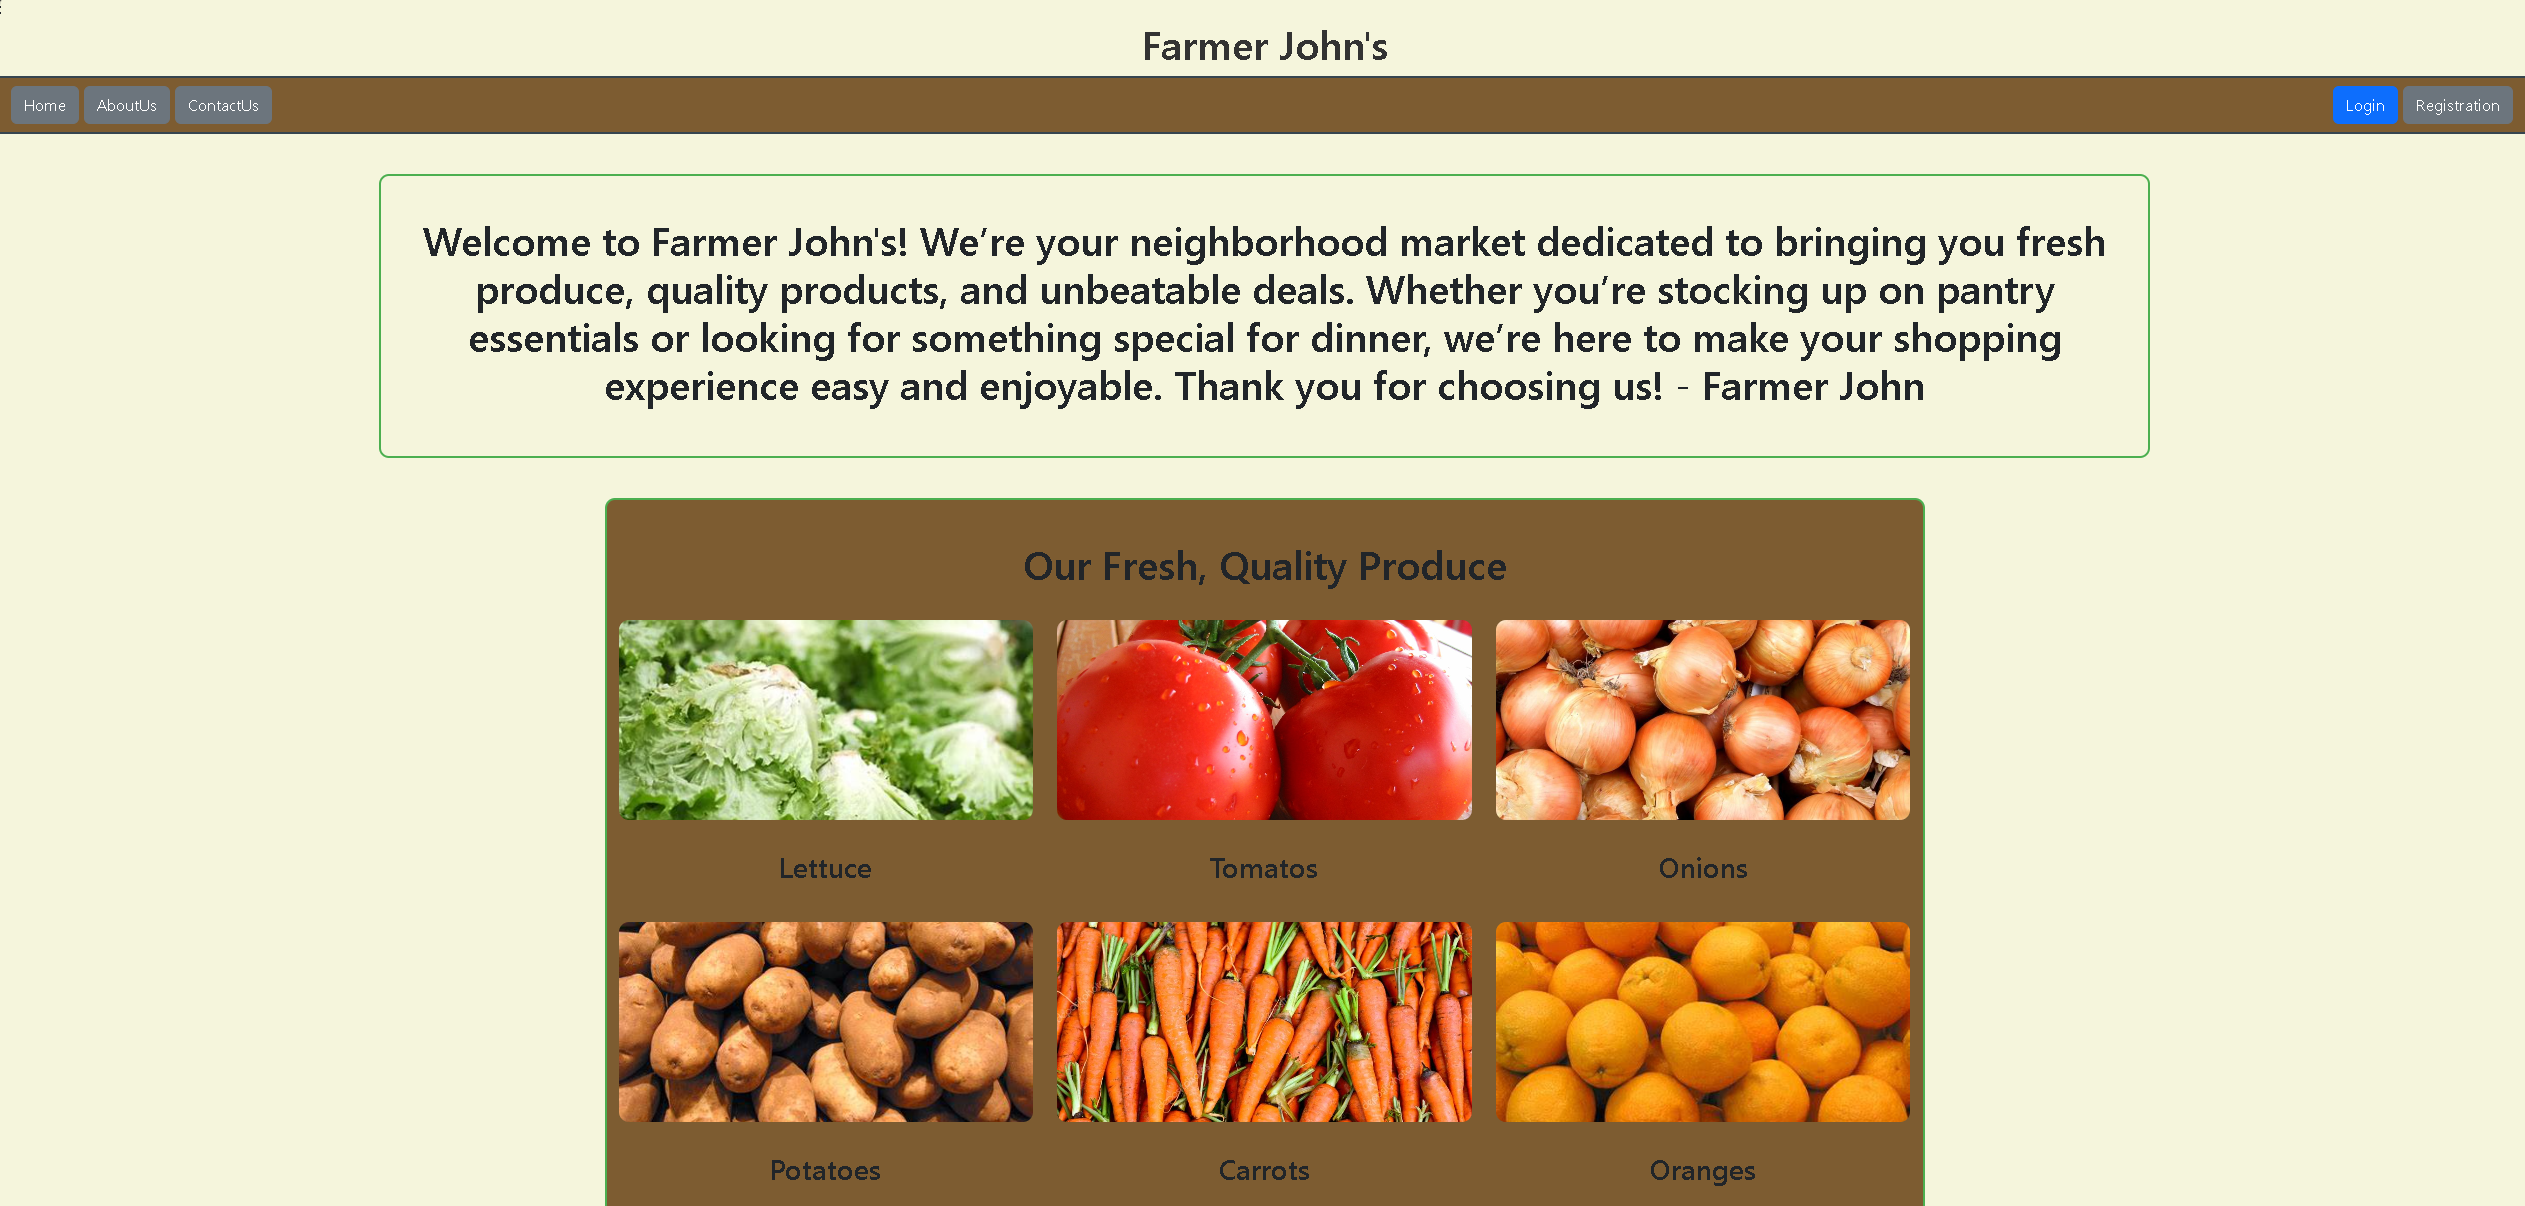
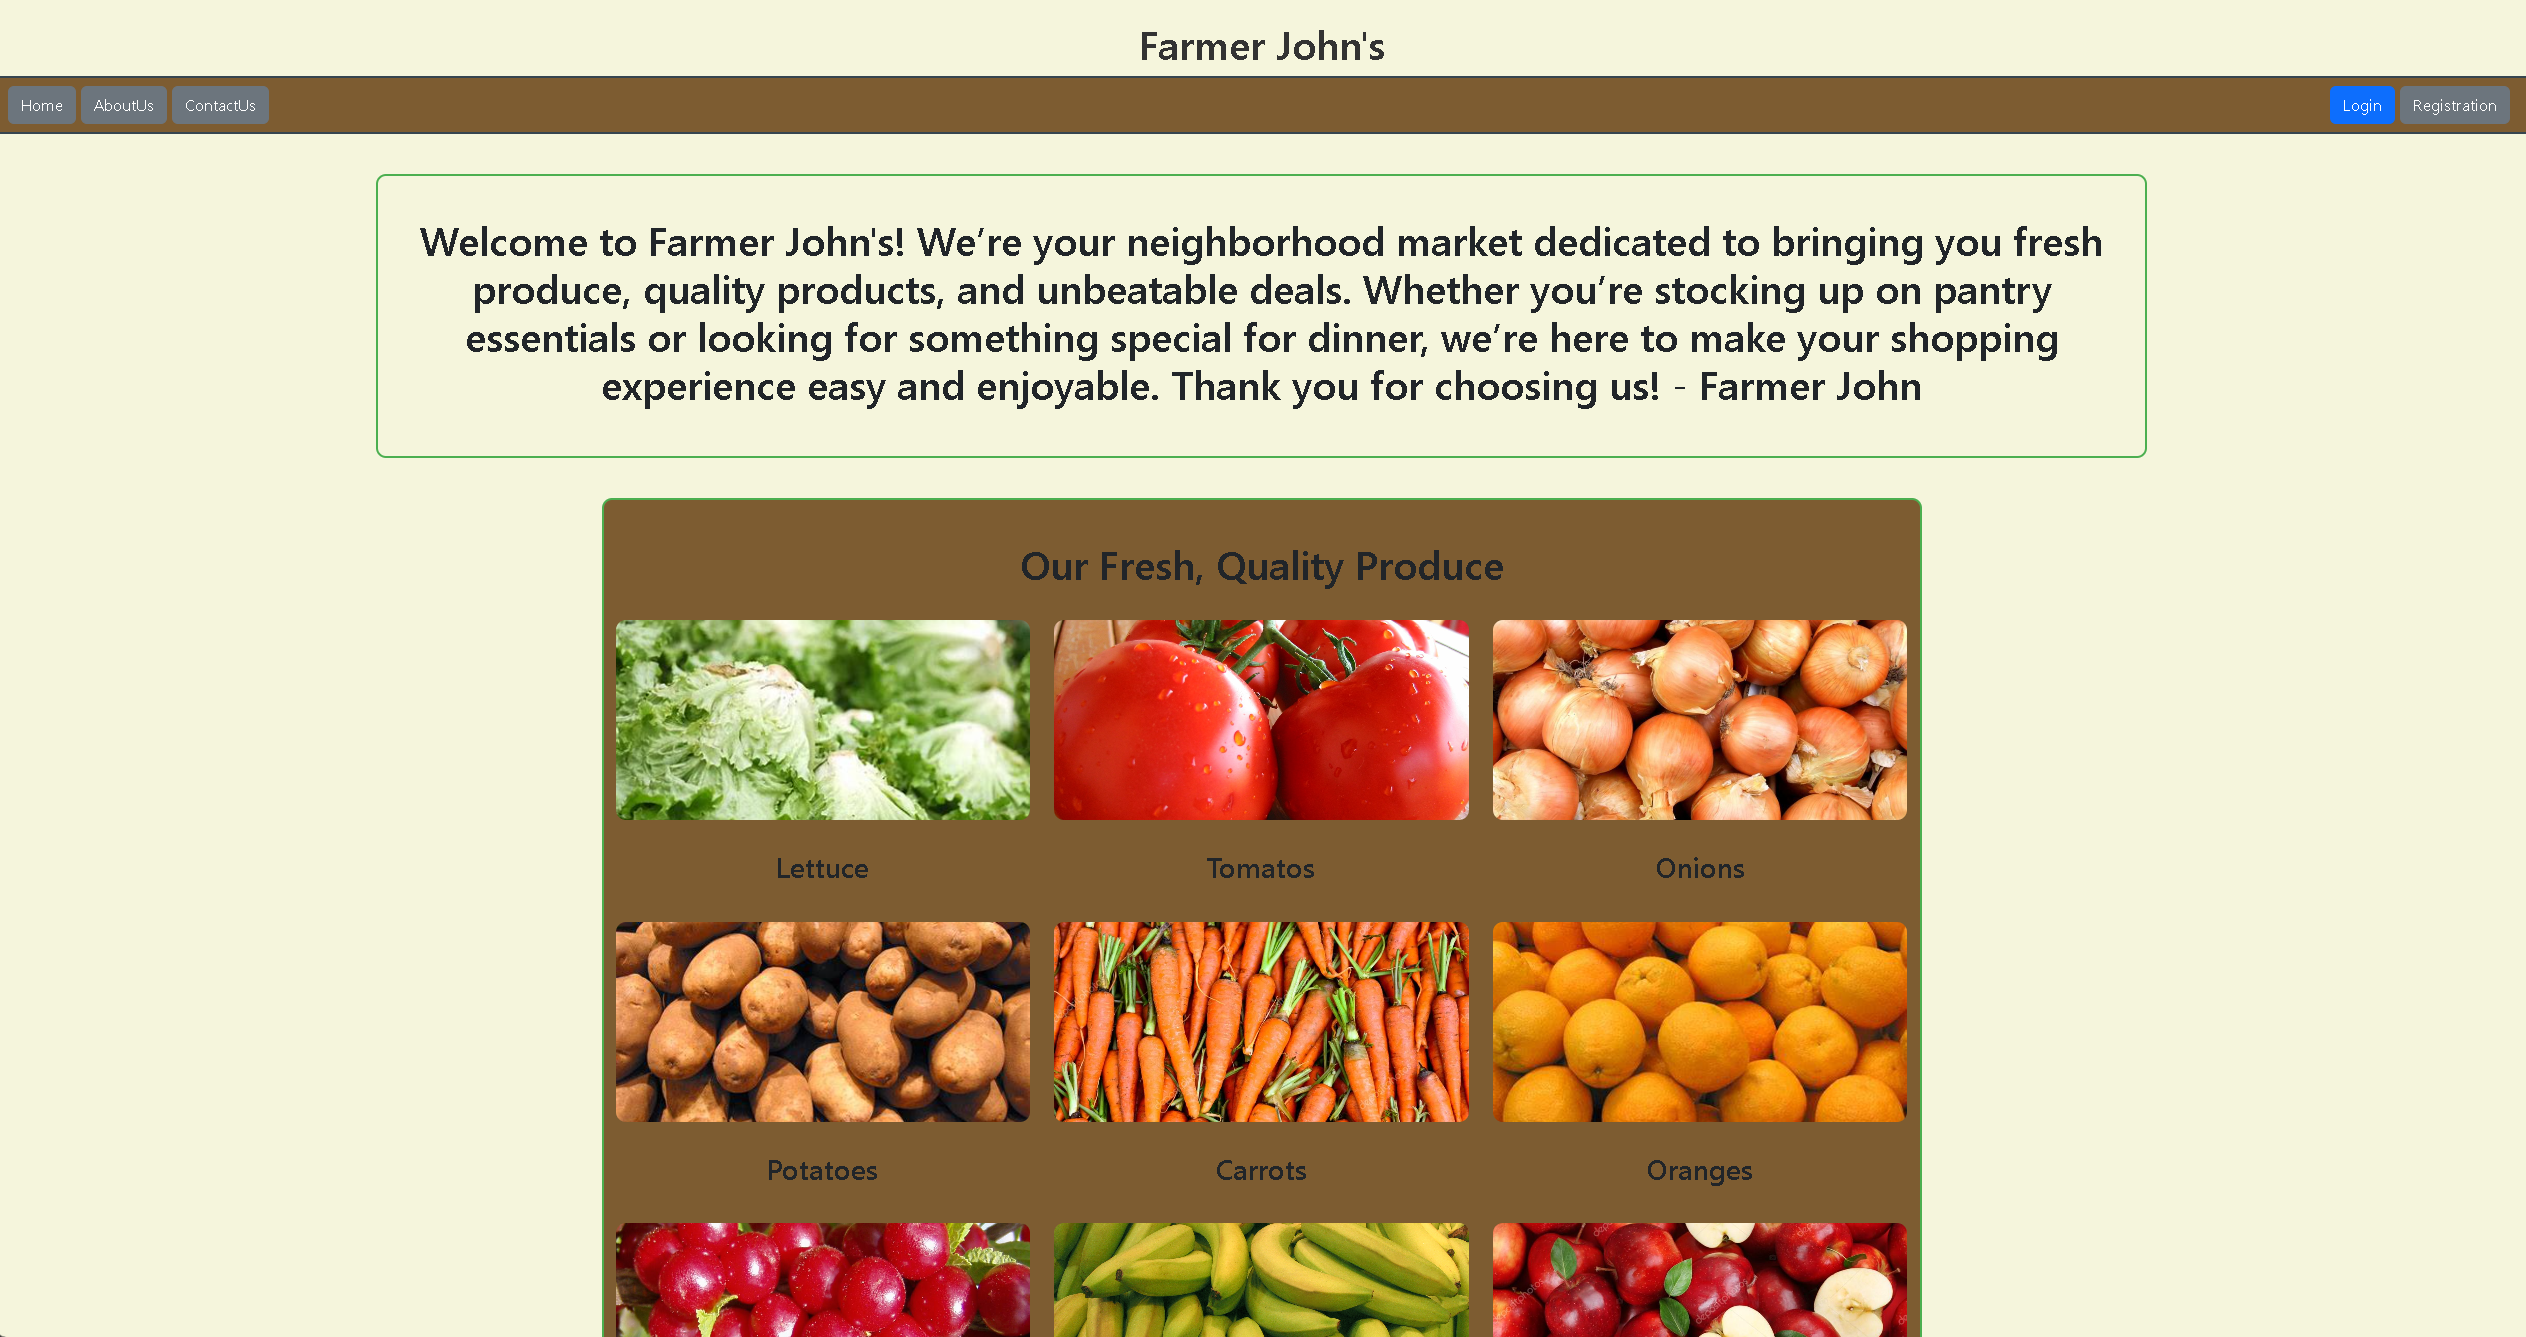
updating images, and text size for increased readability

diff --git a/index.html b/index.html
@@ -61,7 +61,7 @@
 						
 						<div class="row">
 							<article class="col-6 col-12">
-								<h3>COurse Management System</h3>
+								<h3>Course Management System</h3>
 								<a href="https://github.com/JacobColburn/CourseManagementSystem" class="image fit thumb"><img src="images/CourseManagementSystem.png" alt="" /></a>
 								<p style="text-indent: 2em">A web-based application allowing students to securely log in, register or withdraw from courses, and manage their profiles. Built with PHP, MySQL, and MVC architecture, it demonstrates secure user authentication, intuitive design, and robust functionality.</p>
 								<hr class="item-hr" />
@@ -85,7 +85,7 @@
 							</article>
 							<article class="col-6 col-12 ">
 								<h3>Web Scraper</h3>
-								<a href="https://github.com/JacobColburn/Web_Scraper" class="image fit thumb"><img src="images/thumbs/04.jpg" alt="" /></a>
+								<a href="https://github.com/JacobColburn/Web_Scraper" class="image fit thumb"><img src="images/webscraper.png" alt="" /></a>
 								<p style="text-indent: 2em">A Python-based web scraper that extracts quotes and their authors from a target website using BeautifulSoup and requests. 
 									The extracted data is saved in a structured CSV file. 
 									This project highlights my ability to navigate HTML structures, handle HTTP requests, and work with data storage formats.

diff --git a/assets/css/main.css b/assets/css/main.css
@@ -31,7 +31,8 @@ footer, header, hgroup, menu, nav, section {
 	display: block;}
 
 body {
-	line-height: 1;
+	font-size: 18px;
+	line-height: 1.6;
 	
 }
 
@@ -138,6 +139,8 @@ input, select, textarea {
 
 	p {
 		margin: 0 0 2em 0;
+		font-size: 1.6rem; /* Around 19-20px */
+
 	}
 
 	h1, h2, h3, h4, h5, h6 {
@@ -2171,8 +2174,8 @@ input, select, textarea {
 
 			.image.fit img {
 				width: 100%;
-				height: 200px; /* Adjust height as needed */
-				object-fit: cover; /* Ensures images fill the area without distortion */
+				height: auto;
+				
 			}
 
 		.image.avatar {
